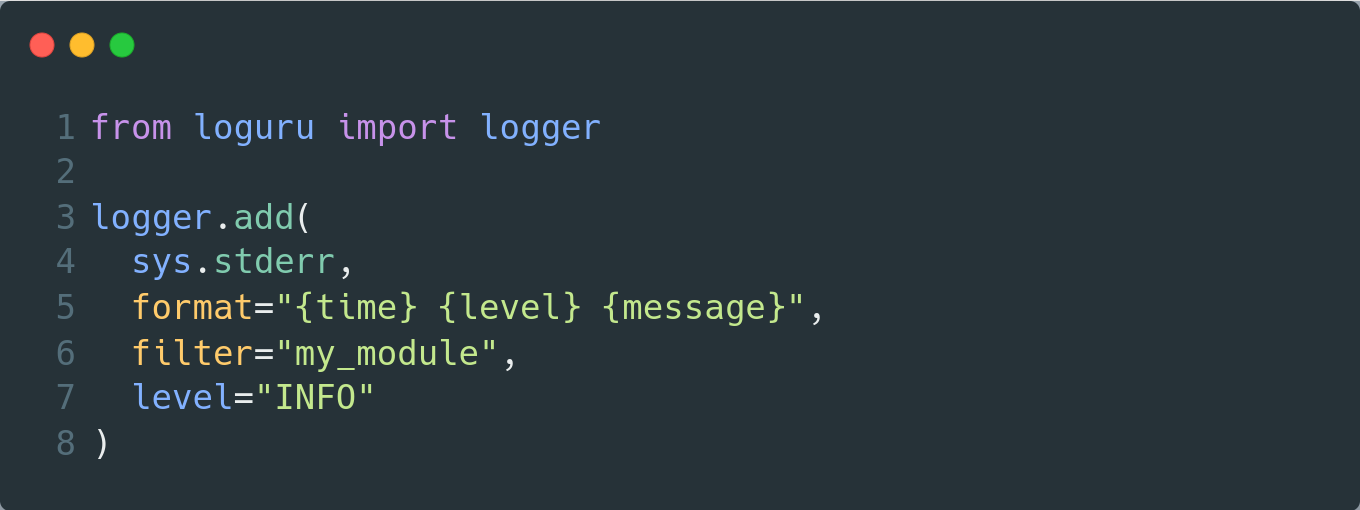
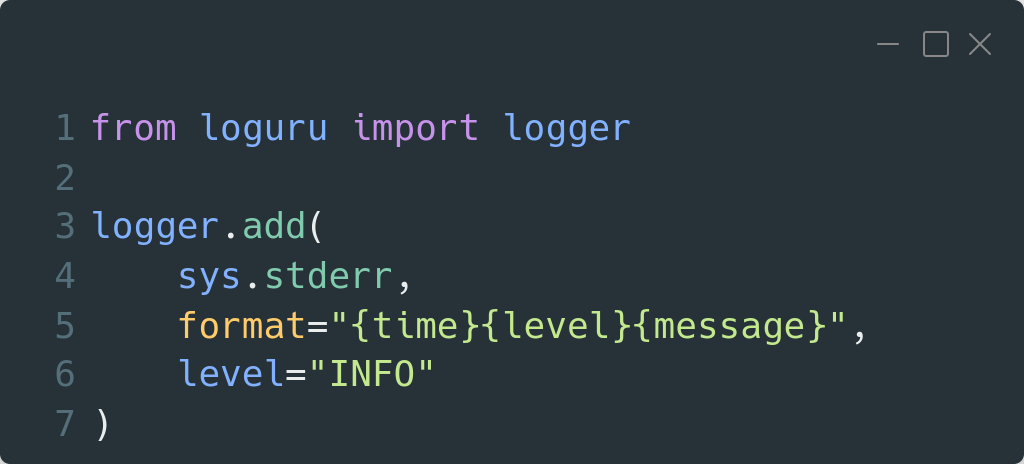
dasmdlk

diff --git a/abaixo-aos-prints-ode-aos-logs/slides.md b/abaixo-aos-prints-ode-aos-logs/slides.md
@@ -82,6 +82,11 @@ img {margin-top: 30px}
 -->
 
 ---
+# O que são prints?
+
+![w:900 center](imagens/print.png)
+
+---
 <style scoped> 
 h1 {font-size:100px; text-align:center; margin-top:200px;} 
 </style>
@@ -99,20 +104,13 @@ h1 {text-align: center;}
 ---
 # O que são logs?
 
->> É uma expressão utilizada para descrever o processo de **registro** de **eventos** relevantes em um sistema computacional.¹
+>> Expressão utilizada para descrever o processo de **registro** de **eventos** relevantes em um sistema computacional.¹
 
-* Registro: "escrever" ou "marcar" algo em algum lugar
+* Registro: "escrever" ou "marcar" **algo** em **algum lugar**
 * Eventos que aconteceram no **passado** e podem ser **observados**
-
+* Exemplos de eventos relevantes: **log**in, **log**off, algum erro no sistema, sucesso em uma requisição externa
+* Local do registro pode ser a saída do terminal, um arquivo, um servidor de email
 <!-- _footer: 1. https://pt.wikipedia.org/wiki/Log_de_dados -->
----
-# Eventos relevantes?
-
-Exemplos de eventos:
-1) **log**in
-2) **log**off
-3) Algum erro no sistema
-4) Um sucesso em uma requisição externa
 
 ---
 # Quando usar prints?
@@ -136,9 +134,9 @@ p {font-size: 100px; text-align:center;}
 <!-- A seguir vou mostrar algumas funcionalidades dos logs que não existem nos prints e como é uma ferramenta poderosa -->
 
 ---
-# Lib padrão de logging do python
+# Logs em python
 
-![w:950 center](imagens/logging-lib.png)
+![w:900 center](imagens/logging-lib.png)
 
 <!-- _footer: https://docs.python.org/pt-br/3.11/library/logging.html -->
 
@@ -155,10 +153,6 @@ p {font-size: 100px; text-align:center;}
 ![w:1100 center](imagens/logging-niveis.png)
 
 <!-- _footer: https://docs.python.org/pt-br/3/howto/logging.html#logging-howto -->
-
----
-# Conceitos de logs - formatação
-![w:1000 center](imagens/logging-format.png)
 
 ---
 # Conceitos de logs - formatação
@@ -245,20 +239,7 @@ h1 {font-size: 55px}
 
 Apenas um comando para configurações
 
-![w:1000 center](imagens/loguru-add.png)
-
----
-<style scoped> 
-h1 {font-size: 55px}
-</style>
-
-# Simplificação de logs em python com loguru
-
-Formatação de strings com sintaxe mais recente **{ }** ao invés de **%**
-
-![w:1100 center](imagens/loguru-syntax-format.png)
-![w:1100 center](imagens/loguru-syntax-format-saida.png)
-
+![w:900 center](imagens/loguru-add.png)
 
 ---
 <style scoped>
@@ -303,9 +284,10 @@ Formatação de strings com sintaxe mais recente **{ }** ao invés de **%**
 ![w:1100 center](imagens/loguru-struct-simplificado.png)
 
 ---
+
 <style scoped> h1 {font-size: 55px} </style>
 
-# Simplificação de logs em python com loguru
+# Adicionando contexto
 
 - Consigo adicionar informações personalizadas do meu fluxo
 
@@ -315,11 +297,12 @@ Formatação de strings com sintaxe mais recente **{ }** ao invés de **%**
 ---
 <style scoped> h1 {font-size: 55px} </style>
 
-# Simplificação de logs em python com loguru
+# Adicionando contexto
 
 - E adicionar essas informações em todo um contexto
 
-![w:1100 center](imagens/loguru-contextualize.png)
+![w:800 center](imagens/loguru-contextualize.png)
+![w:800 center](imagens/log-de-dentro.png)
 
 ---
 # Resumo da ópera